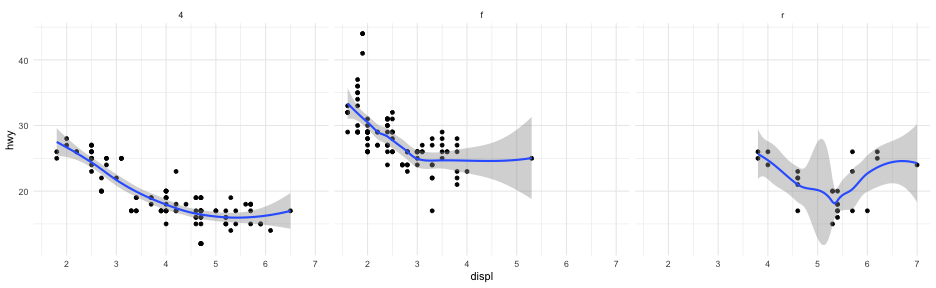
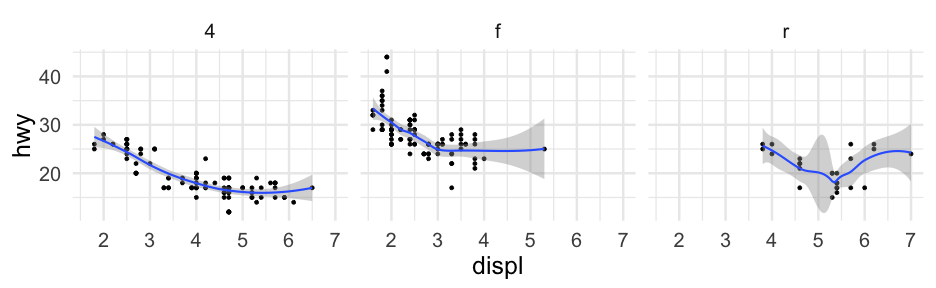
Fixing image size again

diff --git a/public/vita/ds/ds1-slides/w2p1/index.html b/public/vita/ds/ds1-slides/w2p1/index.html
@@ -291,6 +291,8 @@ One of the first lines in many of my scripts is
 theme_set(theme_minimal())
 ```
 
+
+
 ---
 # Get a little fancy
 * You can use `geom_point` for more than one layer
@@ -469,7 +471,7 @@ if (window.HTMLWidgets) slideshow.on('afterShowSlide', function (slide) {
       if (/^\\\((.|\s)+\\\)$/.test(text) || /^\\\[(.|\s)+\\\]$/.test(text) ||
           /^\$\$(.|\s)+\$\$$/.test(text) ||
           /^\\begin\{([^}]+)\}(.|\s)+\\end\{[^}]+\}$/.test(text)) {
-        code.outerHTML = code.innerHTML;  
+        code.outerHTML = code.innerHTML;  // remove <code></code>
         continue;
       }
     }
@@ -477,7 +479,7 @@ if (window.HTMLWidgets) slideshow.on('afterShowSlide', function (slide) {
   }
 })();
 </script>
-
+<!-- dynamically load mathjax for compatibility with self-contained -->
 <script>
 (function () {
   var script = document.createElement('script');

diff --git a/content/vita/ds/ds1-slides/w2p1/index.html b/content/vita/ds/ds1-slides/w2p1/index.html
@@ -291,6 +291,11 @@ One of the first lines in many of my scripts is
 theme_set(theme_minimal())
 ```
 
+
+```r
+theme_set(theme_minimal(base_size = 25))
+```
+
 ---
 # Get a little fancy
 * You can use `geom_point` for more than one layer
